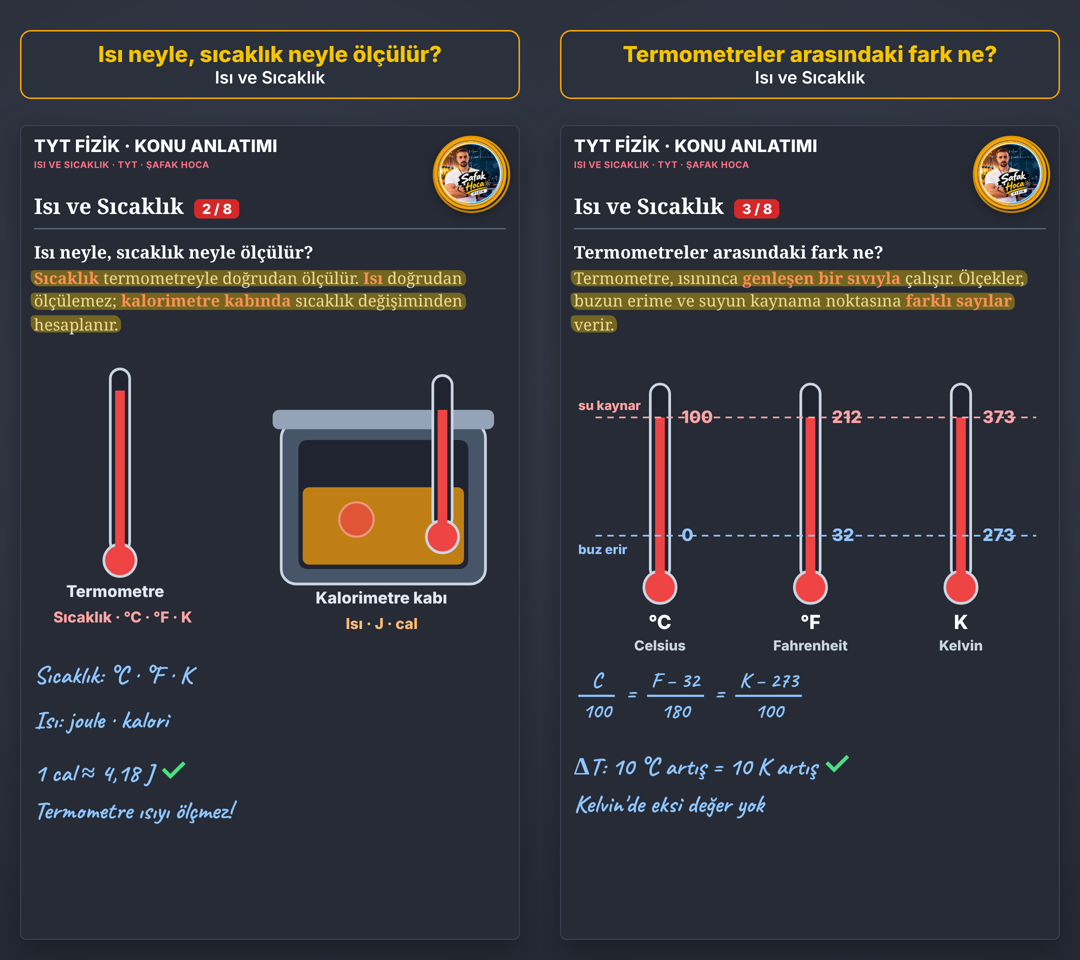
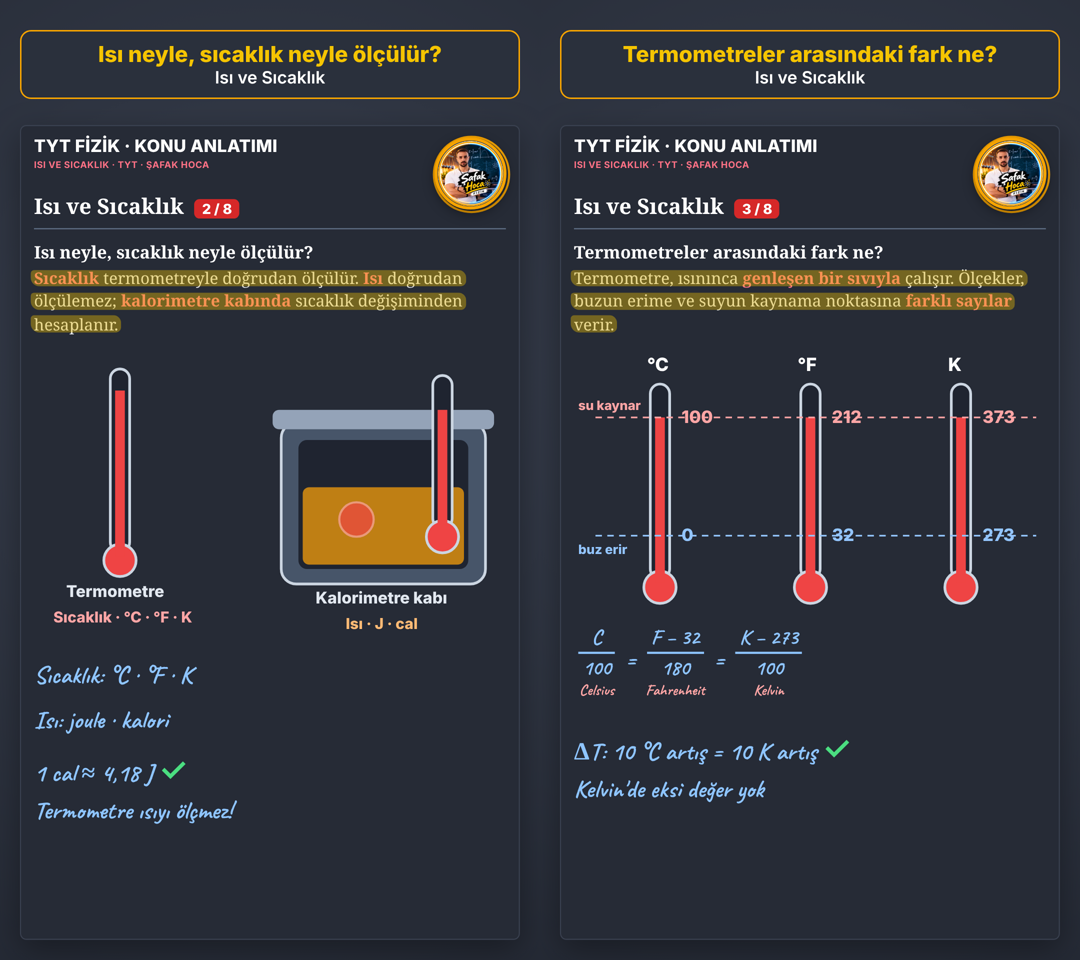
TYT Isı ve Sıcaklık: dönüşüm formülünde her kesrin altına termometresinin adı; termometre etiketleri eski yerinde
Claude-Session: https://claude.ai/code/session_01Xc7NeVxuRXWQCx2wXCgMJt

Changed region(s): [[0.5194, 0.625, 0.7944, 0.8438], [0.8556, 0.625, 0.9167, 0.6875]]

diff --git a/tyt/video/isi_sicaklik.js b/tyt/video/isi_sicaklik.js
@@ -16,6 +16,8 @@ const T = (id, x, y, txt, col = '#e2e8f0', sz = 15, extra = '') => `<text id="${
 const S = {};   // sayfalar arası durum (adım → late)
 // el yazısındaki gibi kesir: pay üstte, payda altta, arada çizgi
 const KS = (pay, payda) => `<span class="ks"><span>${pay}</span><span>${payda}</span></span>`;
+// kesrin altına neye ait olduğunu yaz (ör. Celsius)
+const KSA = (kesir, ad) => `<span class="ksa">${kesir}<i>${ad}</i></span>`;
 
 window.KONU = {
   meta: {tema: 'koyu', sinif: 'TYT', ust1: '5 DAKİKADA TYT', ust2: 'TYT FİZİK', baslik: 'Isı ve Sıcaklık', unite: 'Isı ve Sıcaklık', kazanim: 'TYT',
@@ -63,13 +65,13 @@ window.KONU = {
   // 3 ---------------------------------------------------------------
   {konu: 'Termometreler', soru: 'Termometreler arasındaki fark ne?',
    html: `<span class="qt">Termometre, ısınınca <b>genleşen bir sıvıyla</b> çalışır. Ölçekler, buzun erime ve suyun kaynama noktasına <b>farklı sayılar</b> verir.</span>` +
-    SCENE(100, 290, [['°C', 80, '0', '100', 'Celsius'], ['°F', 220, '32', '212', 'Fahrenheit'], ['K', 360, '273', '373', 'Kelvin']].map(([ad, x, a, b, isim], i) =>
-      TERMO('p2l' + i, x, 34, 215) + T('p2n' + i, x, 262, ad, '#fff', 18, 'text-anchor="middle"') + T('p2m' + i, x, 282, isim, '#cbd5e1', 13, 'text-anchor="middle"') +
+    SCENE(100, 250, [['°C', 80, '0', '100'], ['°F', 220, '32', '212'], ['K', 360, '273', '373']].map(([ad, x, a, b], i) =>
+      TERMO('p2l' + i, x, 34, 215) + T('p2n' + i, x - 12, 22, ad, '#fff', 17) +
       T('p2a' + i, x + 20, 180, a, '#93c5fd', 16, 'opacity="0"') + T('p2b' + i, x + 20, 70, b, '#fca5a5', 16, 'opacity="0"')).join('') +
       `<line id="p2d1" x1="20" y1="175" x2="430" y2="175" stroke="#93c5fd" stroke-width="1.5" stroke-dasharray="6 5" opacity="0"/>
        <line id="p2d2" x1="20" y1="65" x2="430" y2="65" stroke="#fca5a5" stroke-width="1.5" stroke-dasharray="6 5" opacity="0"/>
        ${T('p2e1', 4, 192, 'buz erir', '#93c5fd', 12, 'opacity="0"')}${T('p2e2', 4, 58, 'su kaynar', '#fca5a5', 12, 'opacity="0"')}`, false) +
-    H(1, KS('C', '100') + ' = ' + KS('F − 32', '180') + ' = ' + KS('K − 273', '100'), 0, 400, 'formül') + H(2, 'ΔT: 10 °C artış = 10 K artış ' + CK, 0, 470, 'on') + H(3, "Kelvin'de eksi değer yok", 0, 512, 'Değişimde'),
+    H(1, KSA(KS('C', '100'), 'Celsius') + ' = ' + KSA(KS('F − 32', '180'), 'Fahrenheit') + ' = ' + KSA(KS('K − 273', '100'), 'Kelvin'), 0, 360, 'formül') + H(2, 'ΔT: 10 °C artış = 10 K artış ' + CK, 0, 456, 'on') + H(3, "Kelvin'de eksi değer yok", 0, 498, 'Değişimde'),
    init: () => { for (let i = 0; i < 3; i++) termo('p2l' + i, 215, 6); },
    steps: [
      {d: 2.4, o: [], f: s => { const k = ease(prog(s, 0, 1.6)); for (let i = 0; i < 3; i++) { termo('p2l' + i, 215, 6 + 34 * k); at('p2a' + i, 'opacity', prog(s, 1.2 + i * .3, 1.6 + i * .3)); }

diff --git a/tyt/video/konu.html b/tyt/video/konu.html
@@ -138,6 +138,8 @@ html,body{width:1080px;height:1920px;overflow:hidden;font-family:Inter,sans-seri
 .ks{display:inline-flex;flex-direction:column;vertical-align:middle;text-align:center;line-height:1;margin:0 4px;font-size:.85em}
 .ks>span:first-child{border-bottom:2px solid currentColor;padding:0 4px 3px}
 .ks>span:last-child{padding:3px 4px 0}
+.ksa{display:inline-flex;flex-direction:column;align-items:center;vertical-align:middle}
+.ksa>i{font-style:normal;font-size:.62em;color:#fca5a5;margin-top:3px}
 .band.soru b{font-size:44px;line-height:1.15}
 .hk-top.tyt{top:70px}
 .hk-pill{display:inline-block;background:#D62828;color:#fff;font:900 40px Inter;padding:10px 26px;border-radius:14px}
